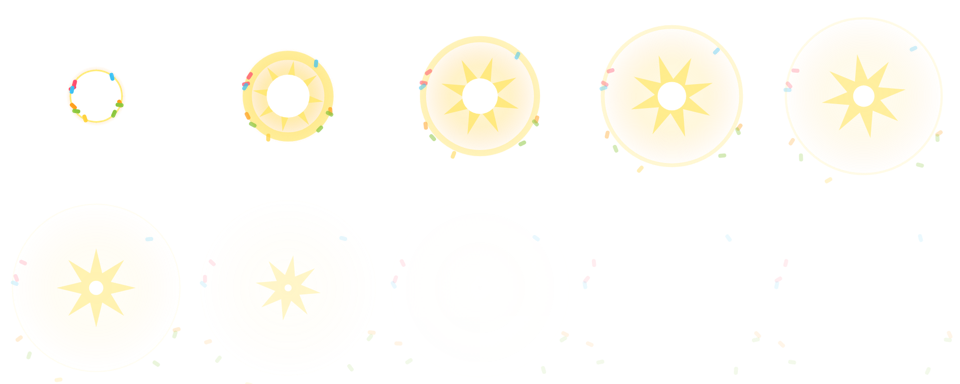
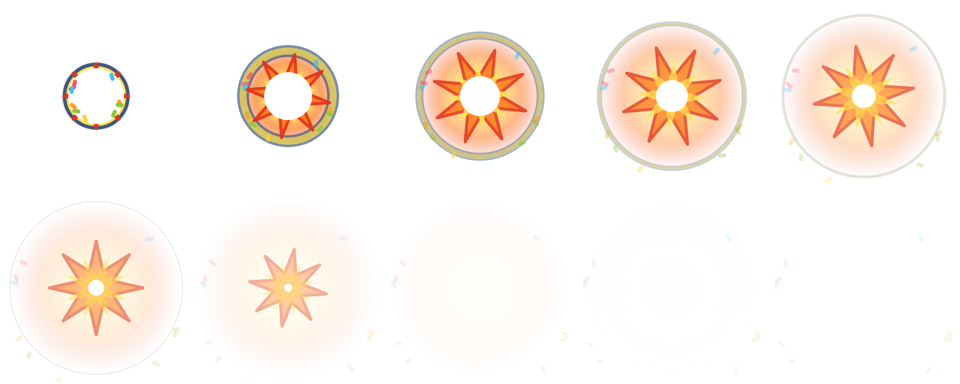
v1.3.2: 홈 화면 추가, 회전 복귀 수정, Pearl Storm 영문, 폭탄 연출 강화

diff --git a/src/scenes/Game.js b/src/scenes/Game.js
@@ -581,7 +581,7 @@ export class GameScene extends Phaser.Scene {
   }
 
   async animBlast(st) {
-    let big = false, ripple = null;
+    let big = false, ripple = null; const centers = [];
     for (const f of st.fx) {
       const at = f.at ? this.xy(...f.at) : { x: W / 2, y: H / 2 };
       const bw = this.engine.s.w * CELL, bh = this.engine.s.h * CELL;
@@ -590,10 +590,10 @@ export class GameScene extends Phaser.Scene {
       switch (f.fx) {
         case 'lineH': audio.play('sfx_line'); lineH(f.at[0]); break;
         case 'lineV': audio.play('sfx_line'); lineV(f.at[1]); break;
-        case 'bomb': audio.play('sfx_bomb'); this.fx('fx_bomb', at.x, at.y, { scale: 1.9 }); big = true; break;
+        case 'bomb': await this.boom(f, at, st.hits, 1); centers.push(f.at); big = true; break;
         case 'cross': audio.play('sfx_combo_special'); lineH(f.at[0]); lineV(f.at[1]); big = true; break;
         case 'bigCross': audio.play('sfx_combo_special'); for (let d = -1; d <= 1; d++) { lineH(f.at[0] + d); lineV(f.at[1] + d); } big = true; break;
-        case 'bigBomb': audio.play('sfx_combo_special'); this.fx('fx_bomb', at.x, at.y, { scale: 3.2 }); big = true; break;
+        case 'bigBomb': audio.play('sfx_combo_special'); await this.boom(f, at, st.hits, 2); centers.push(f.at); big = true; break;
         case 'rainbowAll': {
           // 진주 + 진주: 큰 진주 폭발 → 빛줄기가 모든 칸으로 → 중심에서 물결처럼 차례로 터짐 (아래 handleHits)
           audio.play('sfx_rainbow'); audio.play('sfx_combo_special');
@@ -611,8 +611,8 @@ export class GameScene extends Phaser.Scene {
             this.fxLayer.add(beam);
             this.tweens.add({ targets: beam, alpha: 0, duration: 480, delay: 160, onComplete: () => beam.destroy() });
           });
-          this.bannerText(t('pearlStorm'));
-          ripple = f.at;
+          this.pearlStorm();
+          ripple = true; centers.push(f.at);
           big = true;
           await wait(this, 380 / this.speed);
           break;
@@ -636,30 +636,56 @@ export class GameScene extends Phaser.Scene {
         default: break;
       }
     }
-    if (big) this.cameras.main.shake(ripple ? 520 : 180, ripple ? 0.014 : 0.006);
+    if (big) this.cameras.main.shake(ripple ? 520 : 260, ripple ? 0.014 : 0.011);
     await wait(this, 90 / this.speed);
-    if (ripple) {
-      // 중심에서 가까운 칸부터 한 고리씩 터뜨린다
-      const ring = h => Math.max(Math.abs(h.at[0] - ripple[0]), Math.abs(h.at[1] - ripple[1]));
+    if (centers.length) {
+      // 폭발 중심에서 가까운 칸부터 한 고리씩 터뜨린다 (폭탄·진주 대폭발)
+      const ring = h => Math.min(...centers.map(c => Math.max(Math.abs(h.at[0] - c[0]), Math.abs(h.at[1] - c[1]))));
       const maxR = Math.max(0, ...st.hits.map(ring));
       for (let d = 0; d <= maxR; d++) {
         const group = st.hits.filter(h => ring(h) === d);
         if (!group.length) continue;
         this.handleHits(group);
-        if (d % 2 === 0) audio.play(`sfx_match_${Math.min(5, 1 + d / 2)}`, { volume: 0.5 });
-        await wait(this, 70 / this.speed);
+        if (ripple && d % 2 === 0) audio.play(`sfx_match_${Math.min(5, 1 + d / 2)}`, { volume: 0.5 });
+        await wait(this, (ripple ? 70 : 55) / this.speed);
       }
     } else this.handleHits(st.hits);
     await wait(this, 200 / this.speed);
   }
 
-  // 화면 가운데 큰 글자 (진주 대폭발 등 특별한 순간)
-  bannerText(msg) {
-    const txt = this.add.text(W / 2, (BOARD_TOP + (this.boardBottom || H * 0.7)) / 2, msg, { ...TXT.title, fontSize: '96px', color: '#FFF6B0', stroke: '#6A2CB8', strokeThickness: 18 })
-      .setOrigin(0.5).setDepth(80).setScale(0.2).setAngle(-6);
-    this.tweens.add({ targets: txt, scale: 1, angle: 0, duration: 380, ease: 'Back.Out' });
-    this.tweens.add({ targets: txt, alpha: 0, y: txt.y - 80, delay: 1000, duration: 400, onComplete: () => txt.destroy() });
+  // 폭탄 연출: 부풀며 하얗게 번쩍 → 터지는 범위가 빛남 → 불꽃 + 충격파 + 파편
+  async boom(f, at, hits, rad) {
+    const h = hits.find(x => x.at[0] === f.at[0] && x.at[1] === f.at[1] && x.pid);
+    const s = h && this.sprites.get(h.pid);
+    if (s) {
+      // 블록 스프라이트는 컨테이너라 틴트 대신 흰 빛을 겹쳐서 번쩍이게 한다
+      const glow = this.add.image(at.x, at.y, 'ptc_glow').setScale(0.4).setAlpha(0);
+      this.fxLayer.add(glow);
+      this.tweens.add({ targets: glow, alpha: 1, scale: 1.1, duration: 110 / this.speed, onComplete: () => this.tweens.add({ targets: glow, alpha: 0, duration: 200, onComplete: () => glow.destroy() }) });
+      await tweenP(this, { targets: s, scale: s.scale * 1.45, duration: 110 / this.speed, ease: 'Quad.Out' });
+    }
+    audio.play('sfx_bomb');
+    const size = (rad * 2 + 1) * CELL;
+    const area = this.add.rectangle(at.x, at.y, size, size, 0xFFF1A8, 0.75).setStrokeStyle(10, 0xFF7A1A, 1);
+    this.fxLayer.add(area);
+    this.tweens.add({ targets: area, alpha: 0, scale: 1.08, duration: 380, onComplete: () => area.destroy() });
+    this.fx('fx_bomb', at.x, at.y, { scale: rad === 1 ? 2.6 : 4.2 });
+    const ringFx = this.add.circle(at.x, at.y, 30, 0xffffff, 0).setStrokeStyle(16, 0xFF7A1A, 1);
+    this.fxLayer.add(ringFx);
+    this.tweens.add({ targets: ringFx, radius: size * 0.85, alpha: 0, duration: 420, ease: 'Cubic.Out', onComplete: () => ringFx.destroy() });
+    this.sparkles(at.x, at.y, 0xFF7A1A, 10);
+    this.sparkles(at.x, at.y, 0xFFD23F, 8);
   }
+
+  // 진주 대폭발 문구 (다른 콤보 문구와 같은 영문 이미지)
+  pearlStorm() {
+    if (this.comboImg) this.comboImg.destroy();
+    const img = this.add.image(W / 2, (BOARD_TOP + this.boardBottom) / 2 - 120, 'txt_pearl_storm').setDepth(60).setScale(0).setAngle(-6);
+    this.comboImg = img;
+    this.tweens.add({ targets: img, scale: 0.75, angle: 0, duration: 380, ease: 'Back.Out' });
+    this.tweens.add({ targets: img, alpha: 0, y: img.y - 70, delay: 1100, duration: 350, onComplete: () => img.destroy() });
+  }
+
 
   handleHits(hits) {
     let jelly = false, ice = false, stone = false, chain = false;

diff --git a/src/i18n.js b/src/i18n.js
@@ -8,7 +8,7 @@ const STR = {
     buy: '구매', coins: '코인', giveUp: '포기', reward: '보상', best: '최고 점수', locked: '잠김', worldName: ['산호초 마을', '해초 숲', '깊은 바다', '열대 석호', '난파선 만', '빙하 바다', '진주 동굴', '화산 해구', '해파리 정원', '해저 도시'],
     tap: '터치해서 시작', allClear: '모든 레벨 클리어! 다음 업데이트를 기다려 주세요', boosterHammer: '삼지창', boosterShuffle: '소용돌이 섞기',
     boosterSwap: '자유 교환', boosterMoves: '+5 이동', buyBooster: '{0}\n{1}코인에 살까요?', tapTarget: '사용할 블록을 터치하세요', swapTarget: '바꿀 두 블록을 차례로 터치하세요',
-    cancel: '취소', ok: '확인', pearlStorm: '진주 대폭발!', newBest: '최고 기록 갱신!', nextStar: '다음 별까지 {0}점!\n남은 이동이 많을수록 점수가 커져요', perfect: '완벽해요! 별 3개!', starUp: '별 {0}개 → {1}개 갱신!', first3Bonus: '첫 별 3개 보너스 +30 포함', tapSkip: '화면을 터치하면 빨리 감기', hammerNo: '여기에는 삼지창을 쓸 수 없어요',
+    cancel: '취소', ok: '확인', install: '홈 화면에 추가', installIos: '아래쪽 공유 버튼 [□↑]을 누른 뒤\n\'홈 화면에 추가\'를 선택하세요', installMenu: '브라우저 메뉴 [⋮]에서\n\'홈 화면에 추가\' 또는 \'앱 설치\'를\n선택하세요', installInApp: '이 앱 안의 브라우저에서는 추가할 수 없어요.\n메뉴에서 \'다른 브라우저로 열기\'를 누른 뒤\nSafari 나 Chrome 에서 추가하세요', installDone: '이미 홈 화면에 있어요!', newBest: '최고 기록 갱신!', nextStar: '다음 별까지 {0}점!\n남은 이동이 많을수록 점수가 커져요', perfect: '완벽해요! 별 3개!', starUp: '별 {0}개 → {1}개 갱신!', first3Bonus: '첫 별 3개 보너스 +30 포함', tapSkip: '화면을 터치하면 빨리 감기', hammerNo: '여기에는 삼지창을 쓸 수 없어요',
     blocked: { ice: '얼음에 갇힌 바다 친구는 움직일 수 없어요. 맞춰서 얼음을 깨 주세요!', chain: '어망에 걸린 바다 친구예요. 같은 바다 친구와 맞추면 풀려나요!', bubble: '물방울에 갇혔어요. 옆에서 맞추면 터져요!', stone: '산호 바위는 움직일 수 없어요. 옆에서 맞춰서 부숴요!', crate: '보물상자는 움직일 수 없어요. 옆에서 맞춰서 열어요!', slime: '오염 해초는 움직일 수 없어요. 옆에서 맞춰서 치워요!' }, shuffle: '섞는 중...', reset: '진행 초기화', resetAsk: '정말 처음부터 다시 할까요?',
     goals: { score: '점수 {0}', jelly: '기름띠 모두 청소하기', drop: '아기 친구 구하기', collect: '바다 친구 모으기', clear: '장애물 부수기', cover: '얼음·어망·물방울 깨기', star: '불가사리 모으기' },
     tut: {
@@ -34,7 +34,7 @@ const STR = {
     buy: 'Buy', coins: 'Coins', giveUp: 'Give up', reward: 'Reward', best: 'Best', locked: 'Locked', worldName: ['Coral Village', 'Kelp Forest', 'Deep Blue', 'Tropical Lagoon', 'Shipwreck Bay', 'Polar Sea', 'Pearl Cave', 'Volcanic Vents', 'Jellyfish Garden', 'Sunken City'],
     tap: 'Tap to start', allClear: 'All levels cleared! More coming soon', boosterHammer: 'Trident', boosterShuffle: 'Whirlpool Shuffle',
     boosterSwap: 'Free Swap', boosterMoves: '+5 Moves', buyBooster: 'Buy {0} for {1} coins?', tapTarget: 'Tap a piece to use it on', swapTarget: 'Tap two neighbors to swap',
-    cancel: 'Cancel', ok: 'OK', pearlStorm: 'Pearl Storm!', newBest: 'New best score!', nextStar: '{0} more points for the next star!\nMore moves left means more points', perfect: 'Perfect! 3 stars!', starUp: 'Stars {0} → {1}!', first3Bonus: 'Includes first 3-star bonus +30', tapSkip: 'Tap to fast-forward', hammerNo: 'The trident can’t be used here',
+    cancel: 'Cancel', ok: 'OK', install: 'Add to Home Screen', installIos: 'Tap the Share button [□↑] below,\nthen choose \'Add to Home Screen\'', installMenu: 'Open the browser menu [⋮] and choose\n\'Add to Home screen\' or \'Install app\'', installInApp: 'This in-app browser can’t add apps.\nOpen this page in Safari or Chrome first', installDone: 'Already on your home screen!', newBest: 'New best score!', nextStar: '{0} more points for the next star!\nMore moves left means more points', perfect: 'Perfect! 3 stars!', starUp: 'Stars {0} → {1}!', first3Bonus: 'Includes first 3-star bonus +30', tapSkip: 'Tap to fast-forward', hammerNo: 'The trident can’t be used here',
     blocked: { ice: 'Sea friends in ice can’t move. Match them to crack it!', chain: 'This sea friend is caught in a net. Match it to free it!', bubble: 'Trapped in a bubble. Match next to it to pop it!', stone: 'Coral rocks can’t move. Match next to them to break them!', crate: 'Treasure chests can’t move. Match next to them to open them!', slime: 'Polluted kelp can’t move. Match next to it to clear it!' }, shuffle: 'Shuffling...', reset: 'Reset progress', resetAsk: 'Start over from the beginning?',
     goals: { score: 'Score {0}', jelly: 'Clean up all oil', drop: 'Rescue the babies', collect: 'Collect sea friends', clear: 'Break blockers', cover: 'Break ice, nets & bubbles', star: 'Collect starfish' },
     tut: {

diff --git a/src/scenes/Title.js b/src/scenes/Title.js
@@ -2,7 +2,7 @@ import { W, H, TXT, VERSION } from '../config.js';
 import { t } from '../i18n.js';
 import { audio } from '../audio.js';
 import { load } from '../save.js';
-import { button, iconButton } from '../ui/widgets.js';
+import { button, iconButton, popup, toast } from '../ui/widgets.js';
 import { settingsPopup } from './Map.js';
 
 export class TitleScene extends Phaser.Scene {
@@ -27,6 +27,12 @@ export class TitleScene extends Phaser.Scene {
     const play = button(this, W / 2, H * 0.5, t('play'), () => this.go(), { width: 600, height: 180, size: 72 });
     this.tweens.add({ targets: play, scale: 1.05, yoyo: true, repeat: -1, duration: 650, ease: 'Sine.InOut' });
     iconButton(this, W - 100, 110, 'ico_settings', () => settingsPopup(this), { size: 130 });
+    // 홈 화면에 추가 (이미 앱으로 실행 중이면 숨김)
+    const standalone = matchMedia('(display-mode: standalone)').matches || matchMedia('(display-mode: fullscreen)').matches || navigator.standalone;
+    if (!standalone && !window.__installed) {
+      iconButton(this, 100, 110, 'ico_install', () => this.install(), { size: 130 });
+      this.add.text(100, 205, t('install'), { ...TXT.small, fontSize: '28px', strokeThickness: 7 }).setOrigin(0.5);
+    }
     this.add.text(W / 2, H - 50, `v${VERSION}`, { ...TXT.small, fontSize: '28px', strokeThickness: 6 }).setOrigin(0.5).setAlpha(0.7);
 
     // 브라우저 자동재생 정책: 첫 터치 이후에 음악 시작
@@ -34,6 +40,23 @@ export class TitleScene extends Phaser.Scene {
     else audio.music('bgm_title');
     this.cameras.main.fadeIn(300, 189, 235, 255);
     load();
+  }
+
+  async install() {
+    const ua = navigator.userAgent;
+    if (window.__installPrompt) {   // 안드로이드 크롬·삼성 인터넷: 바로 설치 창
+      const ev = window.__installPrompt; window.__installPrompt = null;
+      ev.prompt();
+      try { const r = await ev.userChoice; if (r.outcome === 'accepted') toast(this, t('installDone')); } catch { /* */ }
+      return;
+    }
+    const inApp = /KAKAOTALK|NAVER|Instagram|FBAN|FBAV|Line\/|DaumApps|everytimeApp/i.test(ua);
+    const ios = /iPhone|iPad|iPod/.test(ua) || (navigator.platform === 'MacIntel' && navigator.maxTouchPoints > 1);
+    const msg = inApp ? t('installInApp') : ios ? t('installIos') : t('installMenu');
+    const p = popup(this, { title: t('install'), width: 860, height: 640 });
+    p.box.add(this.add.image(0, -150, 'app_icon_small').setDisplaySize(150, 150));
+    p.box.add(this.add.text(0, 40, msg, { ...TXT.body, fontSize: '38px', lineSpacing: 12 }).setOrigin(0.5));
+    p.box.add(button(this, 0, 220, t('ok'), () => p.close(), { width: 360, height: 130, size: 46 }));
   }
 
   go() {

diff --git a/index.html b/index.html
@@ -6,6 +6,8 @@
 <meta name="theme-color" content="#1F8FE6">
 <meta name="apple-mobile-web-app-capable" content="yes">
 <meta name="mobile-web-app-capable" content="yes">
+<meta name="apple-mobile-web-app-title" content="Ocean Tales">
+<meta name="apple-mobile-web-app-status-bar-style" content="black-translucent">
 <title>Ocean Tales</title>
 <meta name="description" content="귀여운 바다 친구들을 맞추는 매치3 퍼즐 게임">
 <meta property="og:title" content="Ocean Tales">
@@ -20,11 +22,18 @@
   #game { position: fixed; top: env(safe-area-inset-top, 0px); bottom: env(safe-area-inset-bottom, 0px); left: 0; right: 0; }
   #boot { position: fixed; inset: 0; display: grid; place-items: center; font: 28px Jua, sans-serif; color: #FFFFFF; }
   canvas { display: block; }
+  /* 휴대폰을 가로로 돌리면 안내만 보여 준다 (게임은 세로 전용) */
+  #rotate { display: none; position: fixed; inset: 0; z-index: 10; background: linear-gradient(#5FD8FF, #1E8FE6); color: #fff;
+            font: 30px Jua, sans-serif; text-align: center; place-items: center; text-shadow: 0 3px 0 #123A6E; }
+  #rotate b { display: block; font-size: 72px; margin-bottom: 12px; animation: tilt 1.6s ease-in-out infinite; }
+  @keyframes tilt { 0%, 100% { transform: rotate(90deg); } 50% { transform: rotate(0deg); } }
+  @media (orientation: landscape) and (pointer: coarse) and (max-height: 560px) { #rotate { display: grid; } }
 </style>
 </head>
 <body>
 <div id="boot">Ocean Tales</div>
 <div id="game"></div>
+<div id="rotate"><div><b>📱</b>화면을 세로로 돌려 주세요<br><small>Please rotate to portrait</small></div></div>
 <script src="lib/phaser.min.js"></script>
 <script type="module" src="src/main.js"></script>
 </body>

diff --git a/src/main.js b/src/main.js
@@ -24,6 +24,18 @@ async function start() {
   audio.attach(game);
   setH(game.scale.height);
   game.scale.on('resize', gs => setH(gs.height));
+  // 화면 회전: 브라우저가 회전 직후 예전 크기를 알려 주는 경우가 있어서, 잠시 뒤 몇 번 더 크기를 다시 잰다
+  // (안 그러면 가로→세로로 돌아와도 가로 크기에 머무름)
+  const refresh = () => [60, 250, 600, 1200].forEach(ms => setTimeout(() => game.scale.refresh(), ms));
+  addEventListener('resize', refresh);
+  addEventListener('orientationchange', refresh);
+  screen.orientation?.addEventListener?.('change', refresh);
   window.__game = game; // 디버그용
 }
+
+// 홈 화면 추가(앱 설치): 크롬·삼성 인터넷은 설치 창을 띄울 수 있게 이벤트를 보관해 둔다
+window.addEventListener('beforeinstallprompt', e => { e.preventDefault(); window.__installPrompt = e; });
+window.addEventListener('appinstalled', () => { window.__installPrompt = null; window.__installed = true; });
+if ('serviceWorker' in navigator && location.protocol === 'https:') navigator.serviceWorker.register('sw.js').catch(() => {});
+
 start();

diff --git a/src/scenes/Boot.js b/src/scenes/Boot.js
@@ -28,6 +28,7 @@ export class BootScene extends Phaser.Scene {
     const m = this.cache.json.get('manifest');
     // 월드 배경(큰 이미지)은 레벨에 들어갈 때 그 월드 것만 불러온다 (Game.preload)
     for (const k of m.images) if (!k.startsWith('bg_game_')) this.load.image(k, asset(`assets/img/${k}.png`));
+    this.load.image('app_icon_small', asset('icons/icon_192.png'));   // 홈 화면 추가 안내용
     for (const [k, s] of Object.entries(m.sheets)) this.load.spritesheet(k, asset(`assets/fx/${k}.png`), { frameWidth: s.frameWidth, frameHeight: s.frameHeight, endFrame: s.frames - 1 });
     for (const k of m.fonts) this.load.bitmapFont(k, asset(`assets/fonts/${k}.png`), asset(`assets/fonts/${k}.xml`));
     // AAC 오디오. 호스팅에 따라 .m4a 대신 .mp4 확장자로 올릴 수 있어 manifest.audioExt 로 지정

diff --git a/src/config.js b/src/config.js
@@ -1,6 +1,6 @@
 // 화면·게임 공통 상수
 // 화면 아래에 표시되는 버전 (배포할 때마다 올림)
-export const VERSION = '1.3.1';
+export const VERSION = '1.3.2';
 export const W = 1080;
 export const BASE_H = 1920;
 // 실제 세로 길이 (세로로 긴 폰에서는 1920 보다 커짐). ES 모듈 live binding 이라 import 한 곳에서도 갱신된 값이 보인다.
